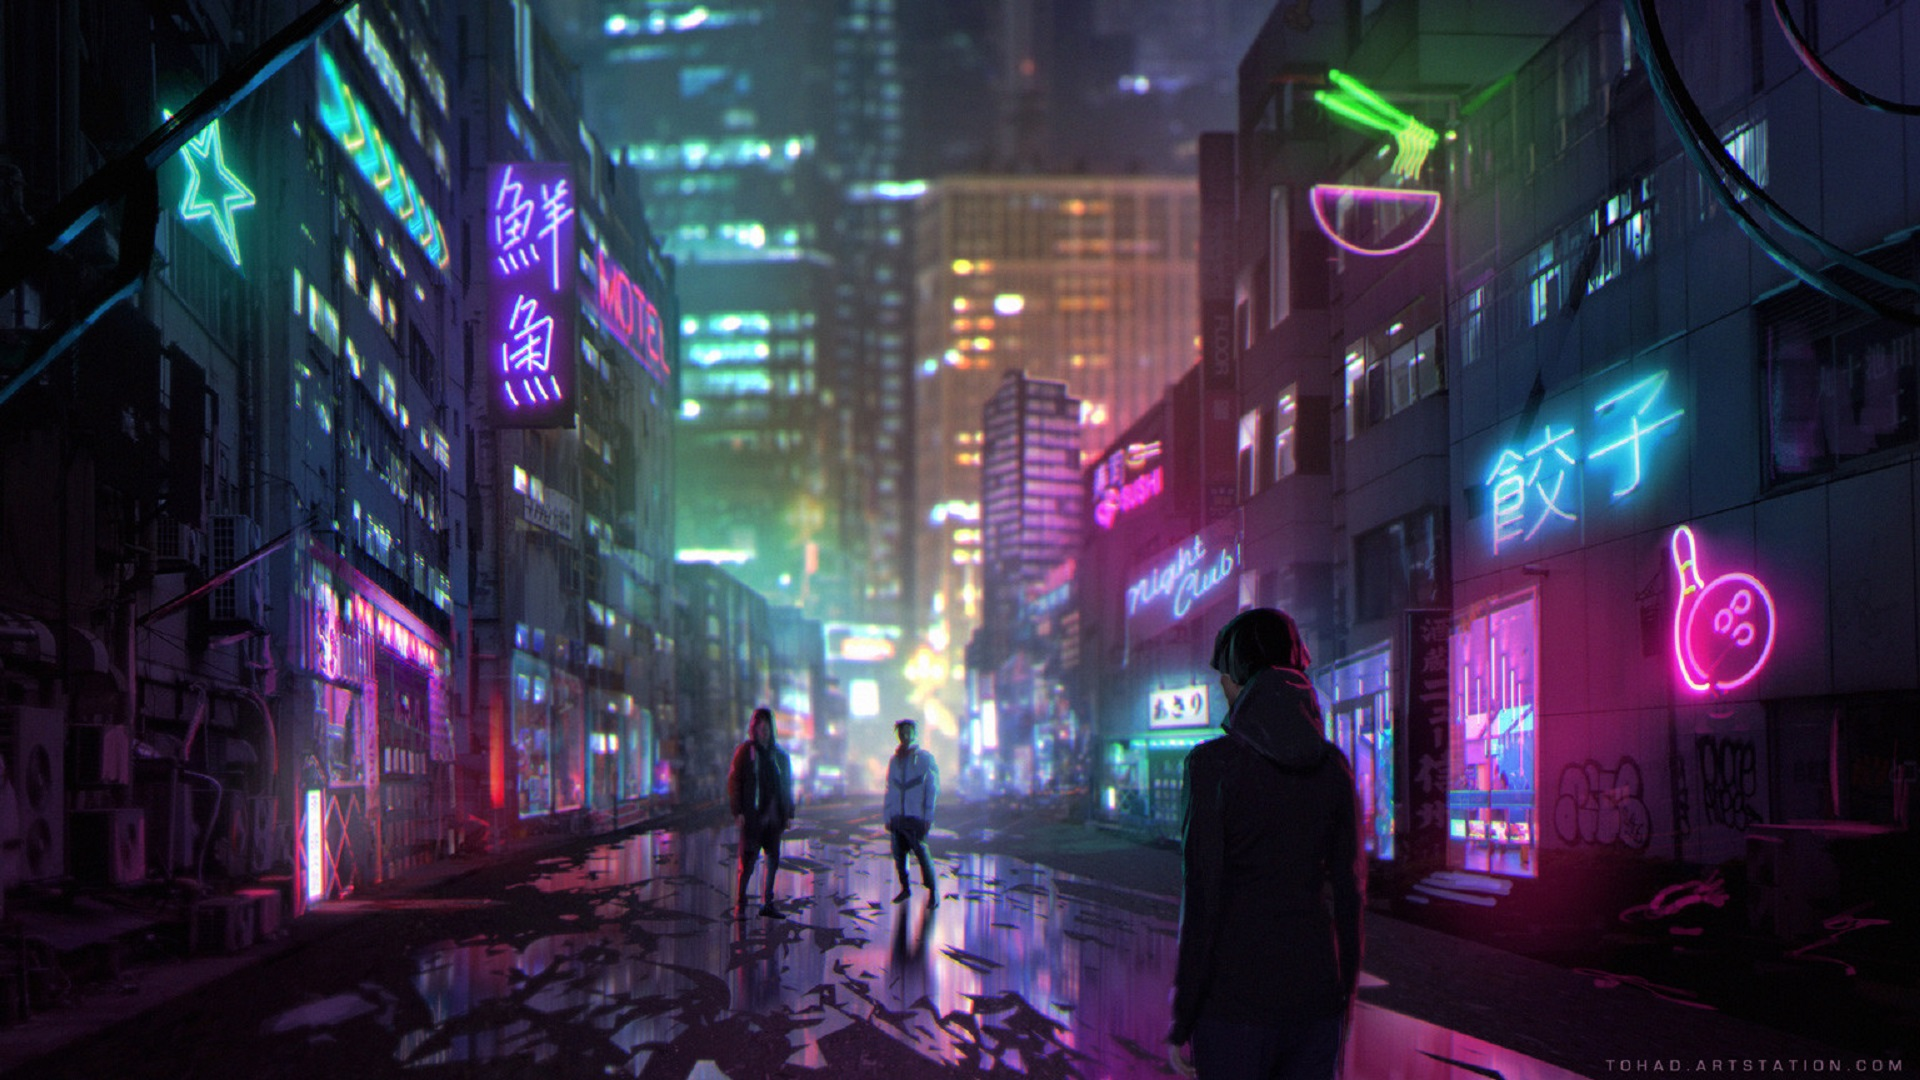
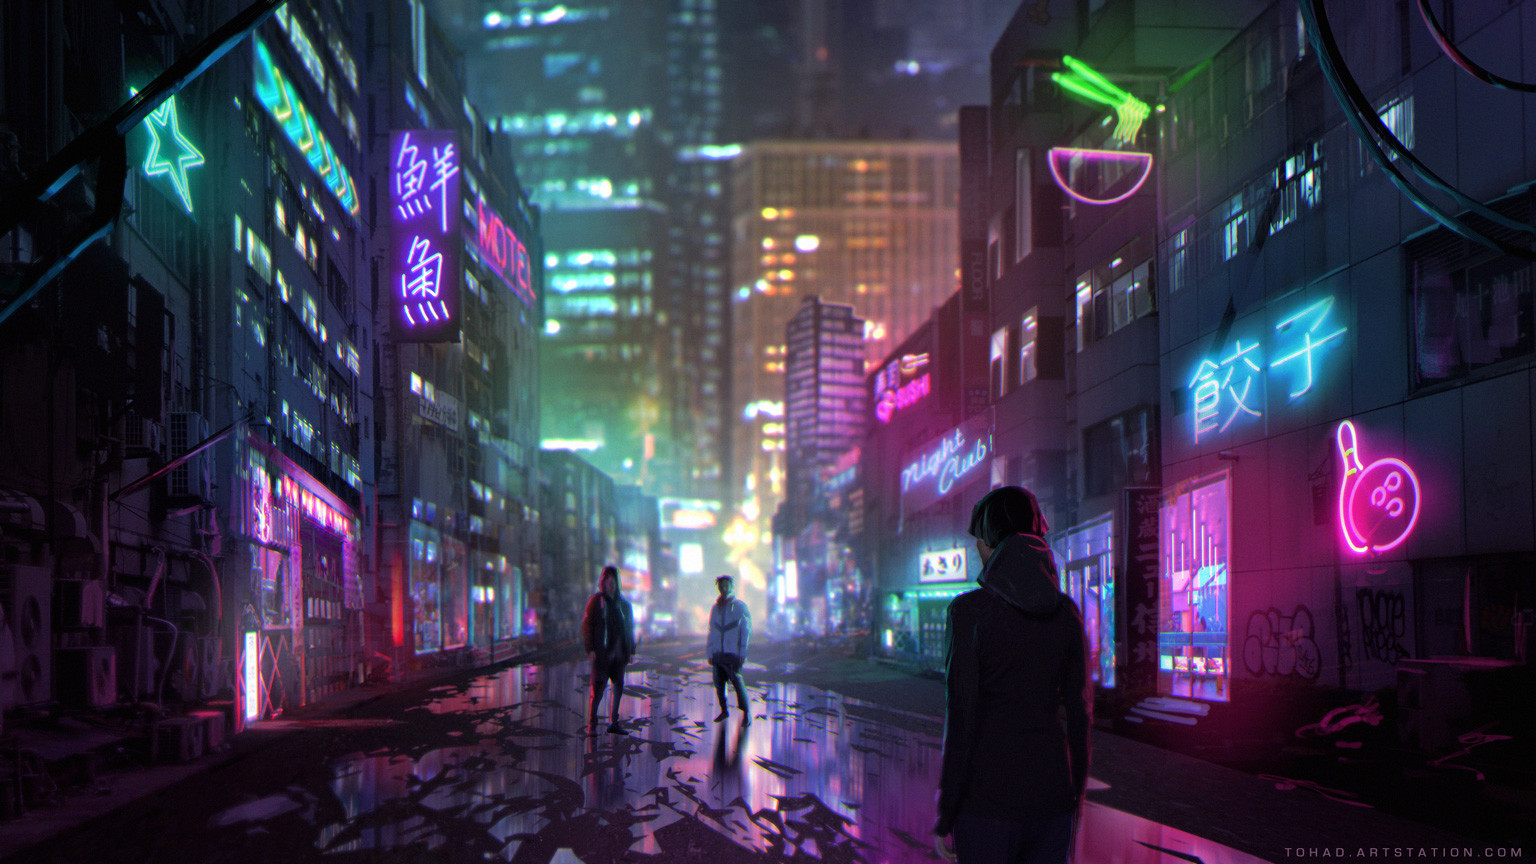
Fix background size
Messes up when at strange resolutions (ex. window has weird aspect ratio)

diff --git a/src/app/login/login.component.scss b/src/app/login/login.component.scss
@@ -8,6 +8,7 @@ h1{
 
 .backImg{
   background-image: url("../../assets/backgrounds/sylvain-sarrailh-theexchange.jpg");
+  background-size: 100vw, 100vh;
   left: 0;
   right: 0;
   bottom: 0;

diff --git a/src/app/home/home.component.scss b/src/app/home/home.component.scss
@@ -2,6 +2,7 @@
 
 .backImg{
   background-image: url("../../assets/backgrounds/sylvain-sarrailh-theexchange.jpg");
+  background-size: 100vw, 100vh;
   left: 0;
   right: 0;
   bottom: 0;
